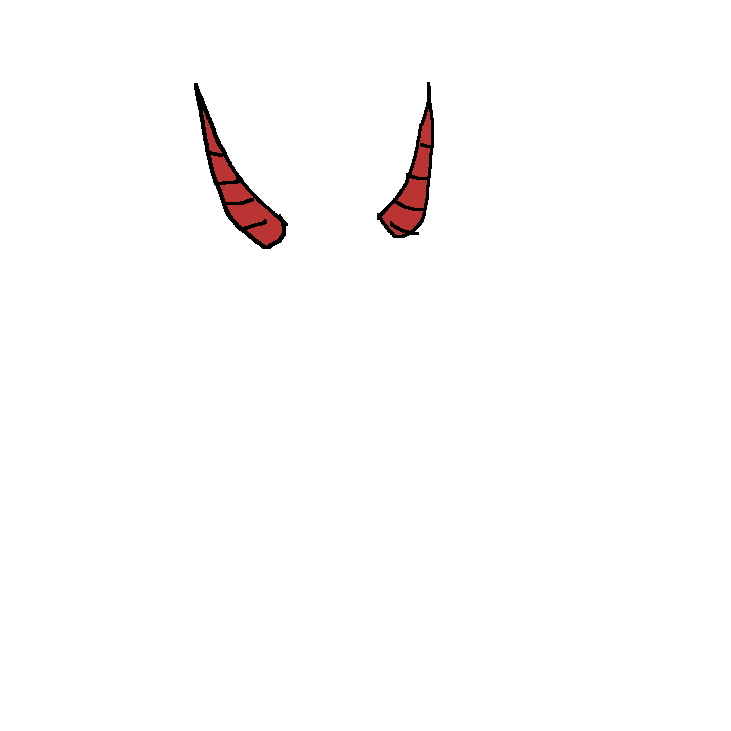
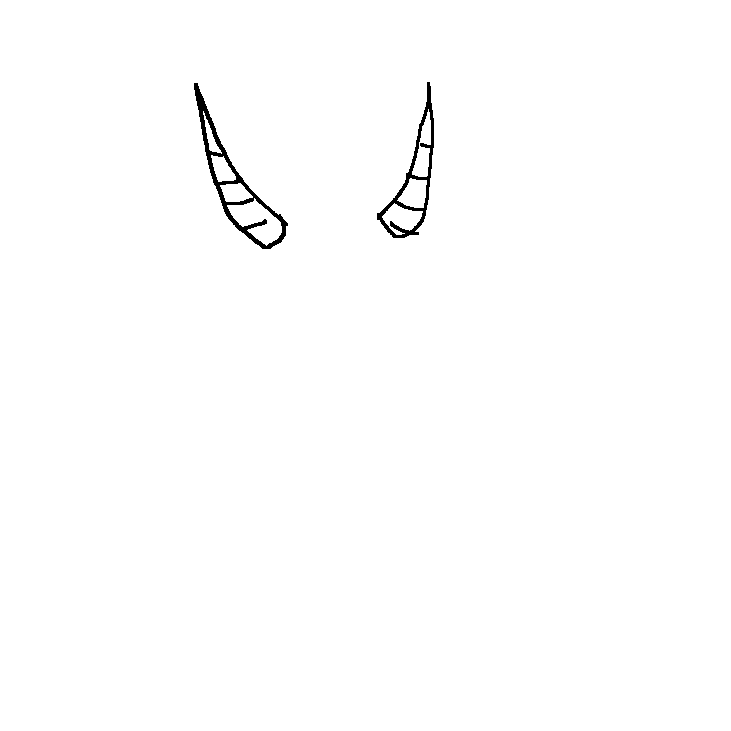
Devil wing

Changed region(s): [[0.5116, 0.1505, 0.6019, 0.3311], [0.2709, 0.1505, 0.3912, 0.3311]]

diff --git a/src/parts.js b/src/parts.js
@@ -349,7 +349,21 @@ const clotheItems = [
                 defaultColor: ["#ffffff", "#000000"]
             }
         ]
-    }
+    },
+    {
+        id: "lashguard",
+        text: "래시가드",
+        category: "clothes",
+        colorable: false,
+        pointingIndex: 35
+    },
+    {
+        id: "nurse",
+        text: "간호복",
+        category: "clothes",
+        colorable: false,
+        pointingIndex: 36
+    },
 ]
 
 const weaponItems = [
@@ -499,6 +513,13 @@ const weaponItems = [
         category: "weapon",
         colorable: false,
         pointingIndex: 21
+    },
+    {
+        id: "injector",
+        text: "주사기",
+        category: "weapon",
+        colorable: false,
+        pointingIndex: 22
     }
 ]
 
@@ -606,14 +627,28 @@ const accessoryAitems = [
         text: "뿔",
         category: "accessoriesA",
         color: false,
-        pointingIndex: 15
+        pointingIndex: 15,
+        subParts: [
+            {
+                id: "thorn1",
+                targetSvg: "thorn1",
+                defaultColor: ["#ba3434"]
+            }
+        ]
     },
     {
         id: "mask",
         text: "마스크",
         category: "accessoriesA",
         color: false,
-        pointingIndex: 16
+        pointingIndex: 16,
+        subParts: [
+            {
+                id: "mask1",
+                targetSvg: "mask1",
+                defaultColor: ["#ffffff", "#000000"]
+            }
+        ]
     },
     {
         id: "hentai mask",
@@ -696,6 +731,31 @@ const accessoryAitems = [
         text: "밀짚모자",
         pointingIndex: 31
     },
+    {
+        id: "tube",
+        text: "튜브",
+        pointingIndex: 32
+    },
+    {
+        id: "nurse cap",
+        text: "너스캡",
+        pointingIndex: 33
+    },
+    {
+        id: "snorkle",
+        text: "스노클",
+        pointingIndex: 34
+    },
+    {
+        id: "shoulder mole left",
+        text: "어깨점(좌)",
+        pointingIndex: 35
+    },
+    {
+        id: "shoulder mole right",
+        text: "어깨점(우)",
+        pointingIndex: 36
+    }
 ]
 
 const accessoryBitems = [
@@ -714,7 +774,14 @@ const accessoryBitems = [
     {
         id: "devil wing",
         text: "악마날개",
-        pointingIndex: 4
+        pointingIndex: 4,
+        subParts: [
+            {
+                id: "devilwing1",
+                targetSvg: "devilwing1",
+                defaultColor: ["#1c1c1c", "#CA3636", "#ffffff"]
+            }
+        ]
     },
     {
         id: "devil tail",

diff --git a/src/components/PartsSelection.js b/src/components/PartsSelection.js
@@ -3,22 +3,23 @@ import { ChromePicker } from 'react-color'
 import './picker.css'
 
 const ListView = (props) => {
-    const { items, selected, onChange} = props
+    const { items, selected, onChange, activatedParts } = props
 
-    const determineSelected = (id) => {
+    const determineSelected = (id, pointingIndex) => {
         if (selected.id === id) return "chosenListViewItem"
+        if (activatedParts.indexOf(pointingIndex) >= 0) return "activatedListViewItem"
         return "listViewItem"
     }
 
     return <div className="listViewContainer">
         {items.map(e => {
-            return <div className={`${determineSelected(e.id)}`} onClick={() => onChange(e.id)}>{e.text}</div>
+            return <div className={`${determineSelected(e.id, e.pointingIndex)}`} onClick={() => onChange(e.id)}>{e.text}</div>
         })}
     </div>
 }
 
-const PartsList = ({ selected, items, onChange }) => {
-    return <ListView items={items} selected={selected} onChange={onChange} />
+const PartsList = ({ selected, items, onChange, activatedParts }) => {
+    return <ListView items={items} selected={selected} onChange={onChange} activatedParts={activatedParts}/>
 }
 
 const CustomColorPicker = (props) => {
@@ -91,7 +92,7 @@ const PartsSelection = (props) => {
     }
 
     return <div style={{ display: "flex" }}>
-        <PartsList selected={selected} items={items} onChange={onItemClicked} />
+        <PartsList selected={selected} items={items} onChange={onItemClicked} activatedParts={activatedParts}/>
         <PartsDetail subParts={selected.subParts ? selected.subParts : []}
             colorMap={colorMap}
             id={selected.id}

diff --git a/src/components/SubPartsComponents.js b/src/components/SubPartsComponents.js
@@ -17,6 +17,9 @@ import { ReactComponent as Offshoulder1 } from '../assets/img/clothes/clothes12-
 import { ReactComponent as Necktie1 } from '../assets/img/clothes/clothes18-1.svg'
 import { ReactComponent as Blazer1 } from '../assets/img/clothes/clothes22-1.svg'
 import { ReactComponent as AngelWing1 } from '../assets/img/accessoriesB/accessoriesB1-1.svg'
+import { ReactComponent as Thorn1 } from '../assets/img/accessoriesA/accessoriesA15-1.svg'
+import { ReactComponent as Mask1 } from '../assets/img/accessoriesA/accessoriesA16-1.svg'
+import { ReactComponent as DevilWing1 } from '../assets/img/accessoriesB/accessoriesB4-1.svg'
 
 const subParts = {
     defaultTwintail: (color) => <DefaultHair fill={color} className='svgParts' />,
@@ -38,6 +41,9 @@ const subParts = {
     necktie1: (color) => <Necktie1 fill={color} className='svgParts' />,
     blazer1: (color) => <Blazer1 fill={color} className='svgParts' />,
     angelwing1: (color) => <AngelWing1 fill={color} className='svgParts' />,
+    thorn1: (color) => <Thorn1 fill={color} className='svgParts' />,
+    mask1: (color) => <Mask1 fill={color} className='svgParts' />,
+    devilwing1: (color) => <DevilWing1 fill={color} className='svgParts' />,
   }
 
 export default subParts

diff --git a/src/assets/scss/style.scss b/src/assets/scss/style.scss
@@ -67,9 +67,9 @@
 // update this map when new items or categories are added
 $items: (
     "hairs": 15,
-    "weapons": 21,
-    "clothes": 34,
-    "accessoriesA": 31,
+    "weapons": 22,
+    "clothes": 36,
+    "accessoriesA": 36,
     "accessoriesB": 10,
     "balloon": 4,
     "makeup": 28
@@ -248,6 +248,15 @@ $total in $items {
     cursor: pointer;
     width: 100%;
     max-width: 365px;
+    background-color: white;
+}
+
+.activatedListViewItem {
+    cursor: pointer;
+    width: 100%;
+    max-width: 365px;
+    color:hsl(0, 69%, 60%);
+    font-weight: bold;
     background-color: white;
 }
 
